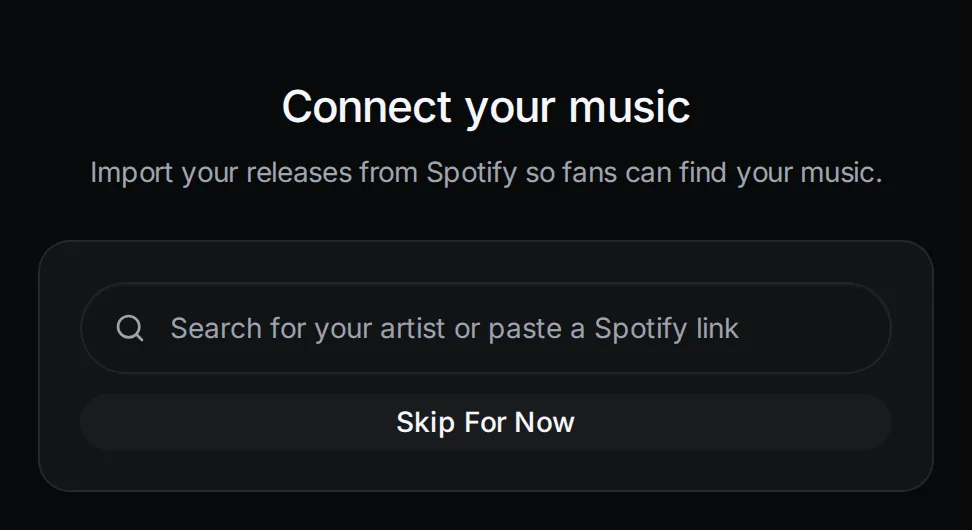
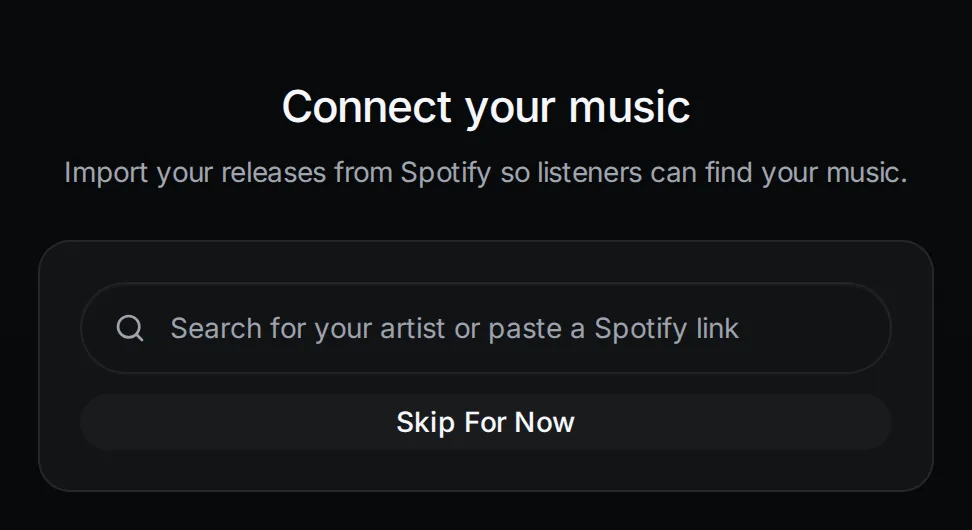
feat(marketing): claim shot passes blind critique; people not fans
Onboarding copy says people and listeners (the audience rule bans fan
language); the demo reads ONBOARDING_STEPS instead of a copied string.
The handle prefix and input share one gapless group, so jov.ie/tim
reads as one URL. Claim renders the real mobile layout at every width
with balanced 41/41 margins.

Changed region(s): [[0.0617, 0.3019, 0.9259, 0.3623]]

diff --git a/apps/web/components/features/dashboard/organisms/onboarding/OnboardingHandleStep.tsx b/apps/web/components/features/dashboard/organisms/onboarding/OnboardingHandleStep.tsx
@@ -105,32 +105,36 @@ export function OnboardingHandleStep({
               hasError && 'border-destructive/60'
             )}
           >
-            <span className='pl-3 text-mid font-semibold whitespace-nowrap text-secondary-token'>
-              jov.ie/
-            </span>
-            <input
-              id='handle-input'
-              ref={inputRef}
-              name='username'
-              aria-label='Claim Your Handle'
-              type='text'
-              value={handleInput}
-              onChange={e =>
-                onHandleChange(
-                  e.target.value
-                    .toLowerCase()
-                    .replaceAll(/\s+/g, '')
-                    .replace(/^@+/, '')
-                )
-              }
-              placeholder='yourname' // ui-casing-allow: literal example placeholder
-              autoComplete='username'
-              autoCapitalize='none'
-              autoCorrect='off'
-              spellCheck={false}
-              aria-invalid={hasError ? 'true' : undefined}
-              className='min-w-0 flex-1 bg-transparent text-mid font-semibold tracking-tighter text-primary-token placeholder:text-tertiary-token placeholder:opacity-60 focus-ring-themed'
-            />
+            {/* Prefix and handle share one group with no gap so the URL
+                reads as one string (jov.ie/tim, not "jov.ie/ tim"). */}
+            <div className='flex min-w-0 flex-1 items-center'>
+              <span className='pl-3 text-mid font-semibold whitespace-nowrap text-secondary-token'>
+                jov.ie/
+              </span>
+              <input
+                id='handle-input'
+                ref={inputRef}
+                name='username'
+                aria-label='Claim Your Handle'
+                type='text'
+                value={handleInput}
+                onChange={e =>
+                  onHandleChange(
+                    e.target.value
+                      .toLowerCase()
+                      .replaceAll(/\s+/g, '')
+                      .replace(/^@+/, '')
+                  )
+                }
+                placeholder='yourname' // ui-casing-allow: literal example placeholder
+                autoComplete='username'
+                autoCapitalize='none'
+                autoCorrect='off'
+                spellCheck={false}
+                aria-invalid={hasError ? 'true' : undefined}
+                className='min-w-0 flex-1 bg-transparent text-mid font-semibold tracking-tighter text-primary-token placeholder:text-tertiary-token placeholder:opacity-60 focus-ring-themed'
+              />
+            </div>
             <button
               data-testid='onboarding-handle-submit'
               type='submit'

diff --git a/apps/web/lib/screenshots/product-shots.ts b/apps/web/lib/screenshots/product-shots.ts
@@ -89,6 +89,8 @@ const DEMO = 'apps/web/components/features/demo';
 const ONBOARDING =
   'apps/web/components/features/dashboard/organisms/onboarding';
 const PROFILE = 'apps/web/components/features/profile';
+const ONBOARDING_COPY =
+  'apps/web/components/features/dashboard/organisms/onboarding-v2/shared/types.ts';
 const STAGE = '[data-testid="onboarding-stage-framed"]';
 
 export const PRODUCT_SHOTS = [
@@ -97,28 +99,22 @@ export const PRODUCT_SHOTS = [
     title: 'Claim your handle',
     alt: 'Jovie onboarding with the handle tim entered after jov.ie/.',
     route: '/demo/showcase/onboarding-handle?profile=tim-white',
-    viewport: 'desktop',
+    // The real mobile layout at every width: at 1440 the desktop field is
+    // 672px wide and the handle reads as a mostly empty pill.
+    viewport: 'mobile',
     theme: 'dark',
     waitFor: '[data-testid="onboarding-handle-submit"]',
-    // The submit button, not the form: the form also holds an empty
-    // validation-status slot that read as dead space under the input.
     crop: [`${STAGE} h1`, '[data-testid="onboarding-handle-submit"]'],
-    // 48px heading on a 52px line box: 10px less on top balances the cap
-    // height against the 32px under the input.
-    padding: { top: 22, right: 32, bottom: 32, left: 32 },
+    // 16px sides keep the crop inside the stage's 24px corner radius
+    // (stage edge x=16, heading x=37) so no frame arc shows; the bottom
+    // balances the ~21px the heading's line box leaves above its caps
+    // (blind critique 2026-10-29: 32 read bottom-heavy).
+    padding: { top: 14, right: 16, bottom: 26, left: 16 },
     frame: 'bare',
-    displayWidth: 736,
-    // At 390 the desktop crop shrinks the heading to 19px; the real mobile
-    // layout reads near 1:1 in a phone-width card.
-    mobile: {
-      crop: [`${STAGE} h1`, '[data-testid="onboarding-handle-submit"]'],
-      // 16px sides keep the crop inside the stage's 24px corner radius
-      // (stage edge x=16, heading x=37) so no frame arc shows.
-      padding: { top: 14, right: 16, bottom: 20, left: 16 },
-      displayWidth: 358,
-    },
+    displayWidth: 358,
     sources: [
       `${ONBOARDING}/OnboardingHandleStep.tsx`,
+      ONBOARDING_COPY,
       `${DEMO}/DemoShowcaseSurface.tsx`,
       'apps/web/components/features/onboarding/OnboardingExperienceShell.tsx',
     ],
@@ -138,6 +134,7 @@ export const PRODUCT_SHOTS = [
     displayWidth: 560,
     sources: [
       `${ONBOARDING}/OnboardingDspStep.tsx`,
+      ONBOARDING_COPY,
       `${DEMO}/DemoShowcaseSurface.tsx`,
       'apps/web/components/features/onboarding/OnboardingExperienceShell.tsx',
     ],

diff --git a/apps/web/components/marketing/ProductShot.test.tsx b/apps/web/components/marketing/ProductShot.test.tsx
@@ -1,5 +1,5 @@
 import { render, screen } from '@testing-library/react';
-import { describe, expect, it } from 'vitest';
+import { describe, expect, it, vi } from 'vitest';
 import {
   getProductShot,
   PRODUCT_SHOT_DPR,
@@ -41,22 +41,31 @@ describe('ProductShot', () => {
     }
   });
 
-  it('serves the mobile variant below the narrow breakpoint without CLS', () => {
-    const { container } = render(<ProductShot id='setup-claim-handle' />);
-    const shot = getProductShot('setup-claim-handle');
-    if (!shot.mobile)
-      throw new Error('setup-claim-handle declares a mobile variant');
+  it('serves a mobile variant below the narrow breakpoint without CLS', async () => {
+    const registry = await import('@/lib/screenshots/product-shots');
+    const base = registry.getProductShot('setup-connect-music');
+    const mobile = {
+      avif: '/product-shots/setup-connect-music--mobile.avif?v=1',
+      webp: '/product-shots/setup-connect-music--mobile.webp?v=1',
+      width: 358,
+      height: 180,
+    };
+    const spy = vi
+      .spyOn(registry, 'getProductShot')
+      .mockReturnValue({ ...base, mobile });
+    const { container } = render(<ProductShot id='setup-connect-music' />);
     const [mobileAvif, mobileWebp, desktopAvif] =
       container.querySelectorAll('source');
 
     expect(mobileAvif).toHaveAttribute('media', PRODUCT_SHOT_MOBILE_MEDIA);
-    expect(mobileAvif).toHaveAttribute('srcset', shot.mobile.avif);
-    expect(mobileWebp).toHaveAttribute('srcset', shot.mobile.webp);
+    expect(mobileAvif).toHaveAttribute('srcset', mobile.avif);
+    expect(mobileWebp).toHaveAttribute('srcset', mobile.webp);
     expect(desktopAvif).not.toHaveAttribute('media');
     const figure = container.querySelector('figure') as HTMLElement;
     expect(figure.style.getPropertyValue('--product-shot-mobile-ratio')).toBe(
-      `${shot.mobile.width} / ${shot.mobile.height}`
+      '358 / 180'
     );
+    spy.mockRestore();
   });
 
   it('draws window chrome only for window-framed shots', () => {

diff --git a/apps/web/components/features/demo/DemoShowcaseSurface.tsx b/apps/web/components/features/demo/DemoShowcaseSurface.tsx
@@ -15,6 +15,7 @@ import { convertDbLinkToDetected } from '@/features/dashboard/organisms/links/ut
 import { OnboardingDspStep } from '@/features/dashboard/organisms/onboarding/OnboardingDspStep';
 import { OnboardingHandleStep } from '@/features/dashboard/organisms/onboarding/OnboardingHandleStep';
 import { OnboardingProfileReviewStep } from '@/features/dashboard/organisms/onboarding/OnboardingProfileReviewStep';
+import { ONBOARDING_STEPS } from '@/features/dashboard/organisms/onboarding-v2/shared/types';
 import { ReleasesEmptyState } from '@/features/dashboard/organisms/release-provider-matrix/ReleasesEmptyState';
 import { ShellReleasesView } from '@/features/dashboard/organisms/release-provider-matrix/shell-releases/ShellReleasesView';
 import { INTERNAL_DJ_DEMO_PERSONA } from '@/lib/demo-personas';
@@ -313,8 +314,8 @@ export function DemoShowcaseSurface({
           testId='demo-showcase-onboarding-handle'
         >
           <OnboardingHandleStep
-            title='Choose your handle'
-            prompt='This is how fans will find and remember you.'
+            title={ONBOARDING_STEPS[0].title}
+            prompt={ONBOARDING_STEPS[0].prompt}
             handleInput={handleInput}
             isHydrated
             handleValidation={
@@ -337,8 +338,8 @@ export function DemoShowcaseSurface({
       return (
         <DemoOnboardingShowcase testId='demo-showcase-onboarding-dsp'>
           <OnboardingDspStep
-            title='Connect your music'
-            prompt='Import your releases from Spotify so fans can find your music.'
+            title={ONBOARDING_STEPS[1].title}
+            prompt={ONBOARDING_STEPS[1].prompt}
             onConnected={noop}
             onSkip={noop}
             isTransitioning={false}

diff --git a/apps/web/components/features/dashboard/organisms/onboarding-v2/shared/types.ts b/apps/web/components/features/dashboard/organisms/onboarding-v2/shared/types.ts
@@ -23,12 +23,13 @@ export const ONBOARDING_STEPS = [
   {
     id: 'handle',
     title: 'Choose your handle',
-    prompt: 'This is how fans will find and remember you.',
+    prompt: 'This is how people will find and remember you.',
   },
   {
     id: 'dsp',
     title: 'Connect your music',
-    prompt: 'Import your releases from Spotify so fans can find your music.',
+    prompt:
+      'Import your releases from Spotify so listeners can find your music.',
   },
   {
     id: 'profile-review',
